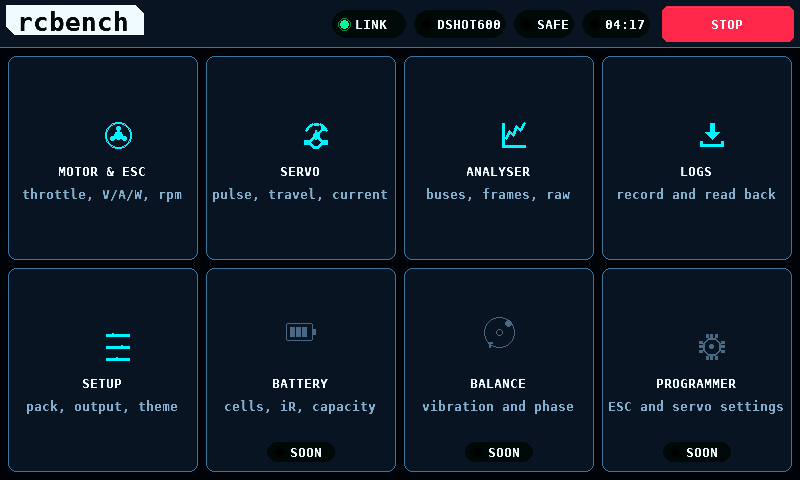
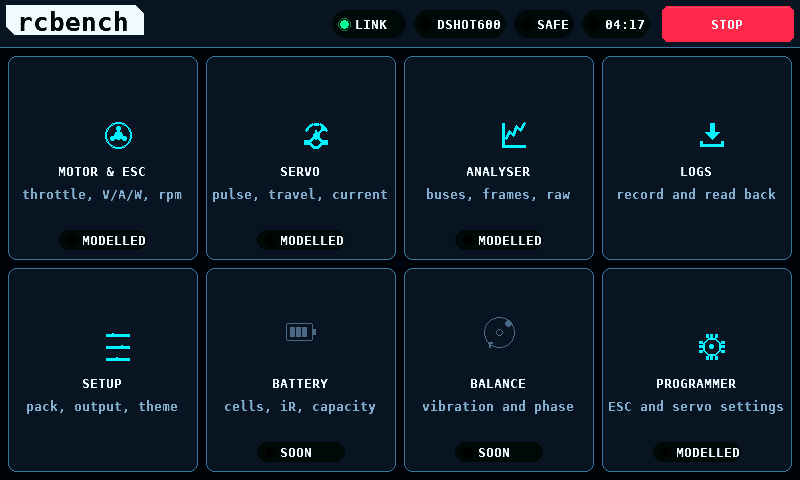
The menu says what the bench can do, not what it has screens for
Three states where there were two.  SOON is a screen that does not exist.
MODELLED is one that does, whose hardware is not fitted -- it opens, it
works, and every number in it is invented.  Nothing at all means the part
is on and the readings are real.

That middle state was indistinguishable from the third, so the menu
quietly promised measurements the bench cannot take.  It comes from
LINK_ID_CAPABILITIES now: a bitmap the coprocessor fills from what is
actually soldered on, which today is nothing, and which the panel takes
off the identity page at bring-up.  The register was declared for exactly
this from the start and had never been written.

This is instead of a page of checkboxes for turning features off, and the
reason is worth keeping.  On a diagnostic instrument a preference that
makes the tool not look is dangerous: untick a receiver bus, plug one in
six months later, and the analyser reports nothing on the wire with no
way to find out why.  It would also have put "I do not want this" and
"this is not fitted" behind one widget, and those must never be confused
-- the second is a fact, and it corrects itself the moment the part goes
on.

A bug came with it, of the family the watermark taught: the menu's tiles
are cached chrome and their badges come out of the status, so the router
now invalidates on a capability change as well as on the simulation flag.
Without that, fitting a sensor left the old badge on screen until
something else forced a repaint.
[…]

diff --git a/shared/ui/overview_screen.c b/shared/ui/overview_screen.c
@@ -3,6 +3,7 @@
 #include <string.h>
 
 #include "ui_icons.h"
+#include "link_pages.h"
 #include "ui_theme.h"
 #include "ui_widgets.h"
 
@@ -25,7 +26,8 @@ typedef struct {
     const char    *name;
     const char    *line;
     ui_icon_fn     icon;
-    bool           live;
+    bool           live;    /**< the screen exists                        */
+    uint16_t       needs;   /**< the hardware it needs, as link_cap_t     */
 } tile_t;
 
 /*
@@ -37,14 +39,22 @@ typedef struct {
 /* iR, not IR: this bench also measures temperature with an infrared part, and
  * the two would sit two tiles apart under the same abbreviation. */
 static const tile_t k_tiles[] = {
-    { SCREEN_MOTOR,      "MOTOR & ESC", "throttle, V/A/W, rpm",    ui_icon_motor,   true  },
-    { SCREEN_SERVO,      "SERVO",       "pulse, travel, current",  ui_icon_servo,   true  },
-    { SCREEN_ANALYSER,   "ANALYSER",    "buses, frames, raw",      ui_icon_chart,    true  },
-    { SCREEN_LOGS,       "LOGS",        "record and read back",    ui_icon_record,     true  },
-    { SCREEN_SETUP,      "SETUP",       "pack, output, theme",     ui_icon_sliders,    true  },
-    { SCREEN_BATTERY,    "BATTERY",     "cells, iR, capacity",     ui_icon_battery, false },
-    { SCREEN_BALANCE,    "BALANCE",     "vibration and phase",     ui_icon_balance, false },
-    { SCREEN_PROGRAMMER, "PROGRAMMER",  "ESC and servo settings",  ui_icon_chip,    false },
+    { SCREEN_MOTOR,      "MOTOR & ESC", "throttle, V/A/W, rpm",    ui_icon_motor,   true,
+      LINK_CAP_ESC_DRIVE | LINK_CAP_PACK_SENSE },
+    { SCREEN_SERVO,      "SERVO",       "pulse, travel, current",  ui_icon_servo,   true,
+      LINK_CAP_SERVO_PWM },
+    { SCREEN_ANALYSER,   "ANALYSER",    "buses, frames, raw",      ui_icon_chart,   true,
+      LINK_CAP_RECEIVER },
+    { SCREEN_LOGS,       "LOGS",        "record and read back",    ui_icon_record,  true,
+      0 },   /* the card is on the panel, so this needs nothing of the far end */
+    { SCREEN_SETUP,      "SETUP",       "pack, output, theme",     ui_icon_sliders, true,
+      0 },
+    { SCREEN_BATTERY,    "BATTERY",     "cells, iR, capacity",     ui_icon_battery, false,
+      LINK_CAP_CELLS },
+    { SCREEN_BALANCE,    "BALANCE",     "vibration and phase",     ui_icon_balance, false,
+      LINK_CAP_VIBRATION },
+    { SCREEN_PROGRAMMER, "PROGRAMMER",  "ESC and servo settings",  ui_icon_chip,    true,
+      LINK_CAP_PROGRAM },
 };
 
 #define TILE_COUNT ((int)(sizeof(k_tiles) / sizeof(k_tiles[0])))
@@ -136,6 +146,8 @@ static void render(gfx_canvas_t *c, int buffer_index)
         gfx_draw_round_rect(c, r.x, r.y, r.w, r.h, 8,
                             ui_theme_color(UI_C_EDGE));
 
+        /* The icon dims for a screen that does not exist.  A screen whose
+         * hardware is missing is fully usable, so it stays lit. */
         t->icon(c, r.x + r.w / 2, r.y + 64, 30,
                 t->live ? ui_theme_color(UI_C_ACCENT)
                         : ui_theme_color(UI_C_TEXT_FAINT));
@@ -149,10 +161,26 @@ static void render(gfx_canvas_t *c, int buffer_index)
         gfx_text_in(c, line, t->line, &gfx_font_8x16,
                     ui_theme_color(UI_C_TEXT_DIM), 1, GFX_ALIGN_CENTER);
 
-        if (!t->live) {
-            const gfx_rect_t badge = { (int16_t)(r.x + r.w / 2 - 34),
-                                       (int16_t)(r.y + r.h - 30), 68, 20 };
-            ui_pill(c, badge, "SOON", 0, ui_theme_color(UI_C_PANEL_SUNK));
+        /*
+         * Three states, not two.
+         *
+         * SOON is a screen that does not exist.  MODELLED is one that does,
+         * whose hardware is not fitted -- it opens, it works, and everything
+         * in it is invented, which is worth knowing from the menu rather than
+         * after walking into it.  Nothing at all means the part is on and the
+         * numbers are real.
+         *
+         * The second state used to be indistinguishable from the third, so
+         * the menu quietly promised measurements the bench could not take.
+         */
+        const uint16_t have = ui_router_status()->capabilities;
+        const bool fitted = (t->needs == 0)
+                            || ((have & t->needs) == t->needs);
+        if (!t->live || !fitted) {
+            const gfx_rect_t badge = { (int16_t)(r.x + r.w / 2 - 44),
+                                       (int16_t)(r.y + r.h - 30), 88, 20 };
+            ui_pill(c, badge, t->live ? "MODELLED" : "SOON", 0,
+                    ui_theme_color(UI_C_PANEL_SUNK));
         }
     }
 }

diff --git a/test/host/test_nav.c b/test/host/test_nav.c
@@ -600,6 +600,48 @@ TEST_CASE(no_line_of_stub_copy_runs_off_the_screen)
     }
 }
 
+
+/*
+ * The menu says what the bench can do, not what it has screens for.
+ *
+ * This replaced a page of checkboxes: a preference that hides a feature goes
+ * stale -- untick a receiver bus, plug one in six months later, and the
+ * analyser reports nothing on the wire with no way to find out why.  A
+ * capability corrects itself the moment the part is fitted, and until then it
+ * says the numbers are modelled rather than quietly implying they are not.
+ */
+TEST_CASE(the_menu_marks_what_is_not_fitted)
+{
+    fresh();
+    to_overview();
+
+    ui_bench_status_t st = *ui_router_status();
+    st.capabilities = 0;                 /* nothing soldered on */
+    ui_router_set_status(&st);
+    ui_router_render(&cv, 0);
+    int bare = 0;
+    for (int i = 0; i < W * H; ++i) {
+        if (fb[i] == ui_theme_color(UI_C_PANEL_SUNK)) { ++bare; }
+    }
+
+    /* Everything fitted: the badges that said MODELLED go away, so there is
+     * strictly less of the badge colour on the screen. */
+    st.capabilities = 0xFFFFu;
+    ui_router_set_status(&st);
+    ui_router_render(&cv, 0);
+    int full = 0;
+    for (int i = 0; i < W * H; ++i) {
+        if (fb[i] == ui_theme_color(UI_C_PANEL_SUNK)) { ++full; }
+    }
+
+    if (full >= bare) {
+        T_FAIL("fitting the hardware did not remove any badges: %d then %d",
+               bare, full);
+    }
+    /* But the two that have no screen still say so. */
+    CHECK(full > 0);
+}
+
 int main(void)
 {
     RUN(the_router_starts_on_the_splash);
@@ -623,5 +665,6 @@ int main(void)
     RUN(the_simulation_mark_covers_the_whole_screen);
     RUN(the_simulation_mark_lets_the_screen_through);
     RUN(switching_the_mark_invalidates_the_cached_chrome);
+    RUN(the_menu_marks_what_is_not_fitted);
     return test_summary("nav");
 }

diff --git a/shared/link/include/link_pages.h b/shared/link/include/link_pages.h
@@ -51,6 +51,31 @@ enum {
     LINK_ID_COUNT          = 7,
 };
 
+/*
+ * What the coprocessor can actually do, as opposed to what it has screens for.
+ *
+ * This is the honest form of "hide what I do not need": the bench reports what
+ * is fitted and the menu says so, rather than a preference somebody set once
+ * and cannot remember.  A preference goes stale -- untick a receiver bus, plug
+ * one in six months later, and the analyser says nothing is on the wire.  A
+ * capability corrects itself the moment the part is soldered on.
+ *
+ * Absent is not the same as forbidden.  A screen whose capability is missing
+ * still opens and still works from the model; it wears the mark that says its
+ * numbers are invented, which it already had to.
+ */
+typedef enum {
+    LINK_CAP_ESC_DRIVE   = 1u << 0, /**< a signal line out to an ESC       */
+    LINK_CAP_ESC_TELEM   = 1u << 1, /**< telemetry back from one           */
+    LINK_CAP_SERVO_PWM   = 1u << 2, /**< pulses out to a servo             */
+    LINK_CAP_SERVO_SENSE = 1u << 3, /**< current, per output               */
+    LINK_CAP_PACK_SENSE  = 1u << 4, /**< pack volts and amps               */
+    LINK_CAP_RECEIVER    = 1u << 5, /**< a receiver bus decoded in PIO     */
+    LINK_CAP_VIBRATION   = 1u << 6, /**< accelerometer and an index pulse  */
+    LINK_CAP_CELLS       = 1u << 7, /**< a cell monitor on the balance lead*/
+    LINK_CAP_PROGRAM     = 1u << 8, /**< one-wire and CLI programming      */
+} link_cap_t;
+
 /* ------------------------------------------------------------------ status */
 enum {
     LINK_ST_STATE      = 0, /**< a link_dev_state_t                      */

diff --git a/firmware/panel/main/main.c b/firmware/panel/main/main.c
@@ -44,6 +44,9 @@ static const char *TAG = "rcbench";
 
 /* Used during bring-up as well as in the loop, so file scope. */
 static link_host_t    s_host;
+/* A link_cap_t bitmap from the coprocessor's identity page.  Zero until
+ * something answers, which is also what it stays if nothing is fitted. */
+static uint16_t       s_capabilities;
 static link_bringup_t s_bring;
 
 #ifdef RCBENCH_CAN_SELFTEST
@@ -229,6 +232,13 @@ static bool bring_up(void)
                      reply.regs[LINK_ID_PROTOCOL_MINOR],
                      reply.regs[LINK_ID_HARDWARE]);
             s_bring.have_identity = true;
+            /*
+             * What the far end can actually do.  Kept here rather than read
+             * again later: the identity page is answered once at bring-up,
+             * and a menu that greyed itself only after a poll would flicker
+             * through a state where the bench claimed more than it has.
+             */
+            s_capabilities        = reply.regs[LINK_ID_CAPABILITIES];
             s_bring.proto_major   = reply.regs[LINK_ID_PROTOCOL_MAJOR];
             s_bring.proto_minor   = reply.regs[LINK_ID_PROTOCOL_MINOR];
             const bool speaks_ours =
@@ -854,6 +864,7 @@ void app_main(void)
             .run_seconds = now_ms() / 1000u,
             .mode        = link_up ? "LINK" : "SIM",
             .simulated   = bench_state_simulated(&bench),
+            .capabilities = s_capabilities,
         };
         ui_router_set_status(&status);
 

diff --git a/shared/ui/ui_router.c b/shared/ui/ui_router.c
@@ -117,12 +117,20 @@ void ui_router_set_status(const ui_bench_status_t *status)
     if (status == NULL) {
         return;
     }
-    /* Screens cache their chrome per framebuffer.  The watermark is painted
-     * over the whole canvas, so switching it changes pixels the screens
-     * believe they have already drawn correctly. */
-    const bool was = s.status.simulated;
+    /*
+     * Screens cache their chrome per framebuffer, so anything in the status
+     * that a screen draws has to invalidate them when it moves.
+     *
+     * The watermark is painted over the whole canvas, so switching it changes
+     * pixels the screens believe they have already drawn correctly.  The
+     * capability bitmap is the same problem in a smaller place: the menu's
+     * tiles are chrome, and their badges come out of it -- fit the sensor and
+     * the badge would otherwise stay until something else forced a repaint.
+     */
+    const bool     was  = s.status.simulated;
+    const uint16_t caps = s.status.capabilities;
     s.status = *status;
-    if (was != s.status.simulated) {
+    if (was != s.status.simulated || caps != s.status.capabilities) {
         ui_router_invalidate();
     }
 }

diff --git a/firmware/copro/src/main.c b/firmware/copro/src/main.c
@@ -389,6 +389,15 @@ int main(void)
 
     s_state.identity[LINK_ID_PROTOCOL_MAJOR] = LINK_PROTOCOL_MAJOR;
     s_state.identity[LINK_ID_PROTOCOL_MINOR] = LINK_PROTOCOL_MINOR;
+    /*
+     * Nothing yet, and saying so is the point.
+     *
+     * Every bit here is a thing that has to be soldered on: PWM to a servo
+     * lead, a shunt, a PIO receiver, an accelerometer.  The board has the
+     * pins and the firmware has the code for none of it, so it reports
+     * nothing and the panel greys the menu accordingly.  When a part goes on,
+     * one bit goes in here and the whole interface stops apologising for it.
+     */
     s_state.identity[LINK_ID_CAPABILITIES]   = 0;
 
     const uint32_t now0 = (uint32_t)to_ms_since_boot(get_absolute_time());

diff --git a/shared/ui/include/ui_screen.h b/shared/ui/include/ui_screen.h
@@ -106,6 +106,16 @@ typedef struct {
      * and every screen would have its own reason to think itself exempt.
      */
     bool simulated;
+
+    /*
+     * A link_cap_t bitmap, straight from the coprocessor's identity page.
+     *
+     * Zero means either that nothing is fitted or that nothing answered, and
+     * the two look the same on purpose: in both cases the bench cannot do the
+     * thing, and a menu that distinguished them would be describing the
+     * cable rather than the bench.
+     */
+    uint16_t capabilities;
 } ui_bench_status_t;
 
 void ui_router_set_status(const ui_bench_status_t *status);

diff --git a/docs/Screens.md b/docs/Screens.md
@@ -17,6 +17,29 @@ cheap direction on a panel whose frame rate is bandwidth-bound, see
 
 ![The feature menu](img/overview.png)
 
+### The menu says what the bench can do
+
+Three states, not two. **SOON** is a screen that does not exist yet. **MODELLED**
+is one that does, whose hardware is not fitted -- it opens, it works, and every
+number in it is invented. Nothing at all means the part is on and the readings
+are real.
+
+That middle state used to be indistinguishable from the third, so the menu
+quietly promised measurements the bench could not take. It now comes from
+`LINK_ID_CAPABILITIES`, a bitmap the coprocessor fills from what is actually
+soldered on, which today is nothing.
+
+This replaced a page of checkboxes for turning features off, and the reason is
+worth keeping. On a diagnostic instrument a preference that makes the tool
+*not look* is dangerous: untick a receiver bus, plug one in six months later,
+and the analyser reports nothing on the wire with no way to find out why. It
+would also have put "I do not want this" and "this is not fitted" behind one
+widget, and those must never be confused -- the second is a fact, and it
+corrects itself the moment the part goes on.
+
+Absent is not forbidden. A screen whose capability is missing still opens and
+still works from the model, wearing the mark that says so.
+
 Right to left, so no item has to guess another's width: link state, the output
 mode, armed, the run clock, and STOP. **STOP is global and always live** — it
 disarms from any screen, so it never needs explaining.

diff --git a/docs/Performance.md b/docs/Performance.md
@@ -23,13 +23,13 @@ panel 39.0 Hz, ~39 MB/s effective -> 976 KiB of traffic per panel frame
 
 mode       lines/frame     traffic   est. ms  est. fps
 -------------------------------------------------------
-frame           10,829     1354 KiB     35.5      19.5
-frame-idle          921      115 KiB      3.0      39.0
-sim             11,638     1455 KiB     38.2      19.5
-chrome          30,338     3792 KiB     99.6       9.8
-overview           918      115 KiB      3.0      39.0
-servo           15,409     1926 KiB     50.6      19.5
-servo-grip        2,952      369 KiB      9.7      39.0
+frame           10,886     1361 KiB     35.7      19.5
+frame-idle          956      120 KiB      3.1      39.0
+sim             11,699     1462 KiB     38.4      19.5
+chrome          30,429     3804 KiB     99.9       9.8
+overview           941      118 KiB      3.1      39.0
+servo           15,456     1932 KiB     50.7      19.5
+servo-grip        2,983      373 KiB      9.8      39.0
 clear           12,006     1501 KiB     39.4      19.5
 vlines           8,160     1020 KiB     26.8      19.5
 hlines               0        0 KiB      0.0      39.0

diff --git a/README.md b/README.md
@@ -348,9 +348,9 @@ samples currently costs **740**.
 | `shared/ui/ui_hero.c` | 29 | 28 | 96.5% |
 | `shared/ui/ui_slider.c` | 125 | 116 | 92.8% |
 | `shared/ui/ui_tabs.c` | 57 | 50 | 87.7% |
-| `shared/ui/ui_router.c` | 131 | 127 | 97.0% |
+| `shared/ui/ui_router.c` | 132 | 128 | 97.0% |
 | `shared/ui/splash_screen.c` | 60 | 57 | 95.0% |
-| `shared/ui/overview_screen.c` | 65 | 60 | 92.3% |
+| `shared/ui/overview_screen.c` | 69 | 64 | 92.8% |
 | `shared/ui/stub_screen.c` | 45 | 41 | 91.1% |
 | `shared/ui/motor_screen.c` | 175 | 169 | 96.6% |
 | `shared/ui/servo_screen.c` | 344 | 306 | 89.0% |
@@ -382,7 +382,7 @@ samples currently costs **740**.
 | `shared/bench/throttle.c` | 53 | 45 | 84.9% |
 | `shared/bench/telemetry_sim.c` | 47 | 44 | 93.6% |
 | `shared/bench/log_writer.c` | 43 | 40 | 93.0% |
-| **total** | **6543** | **6185** | **94.5%** |
+| **total** | **6548** | **6190** | **94.5%** |
 
 _Generated by `tools/coverage.py`; CI runs `--check` and fails on drift._
 <!-- coverage:end -->
